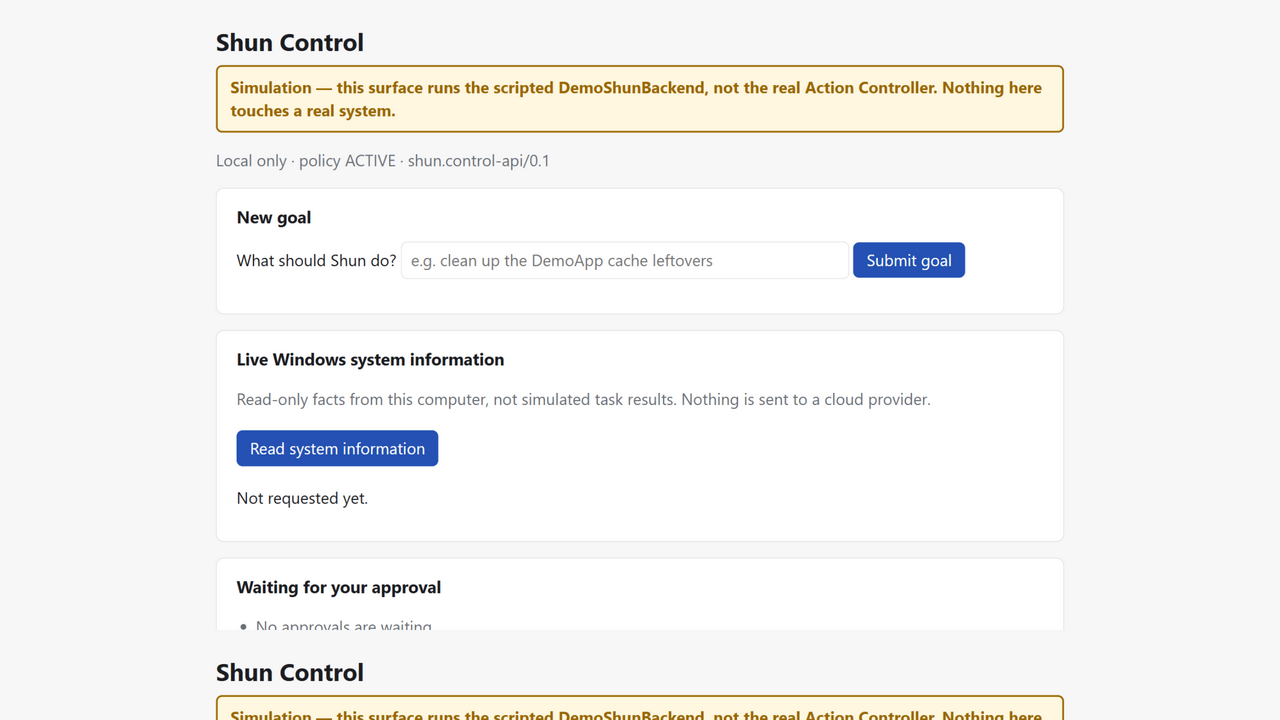
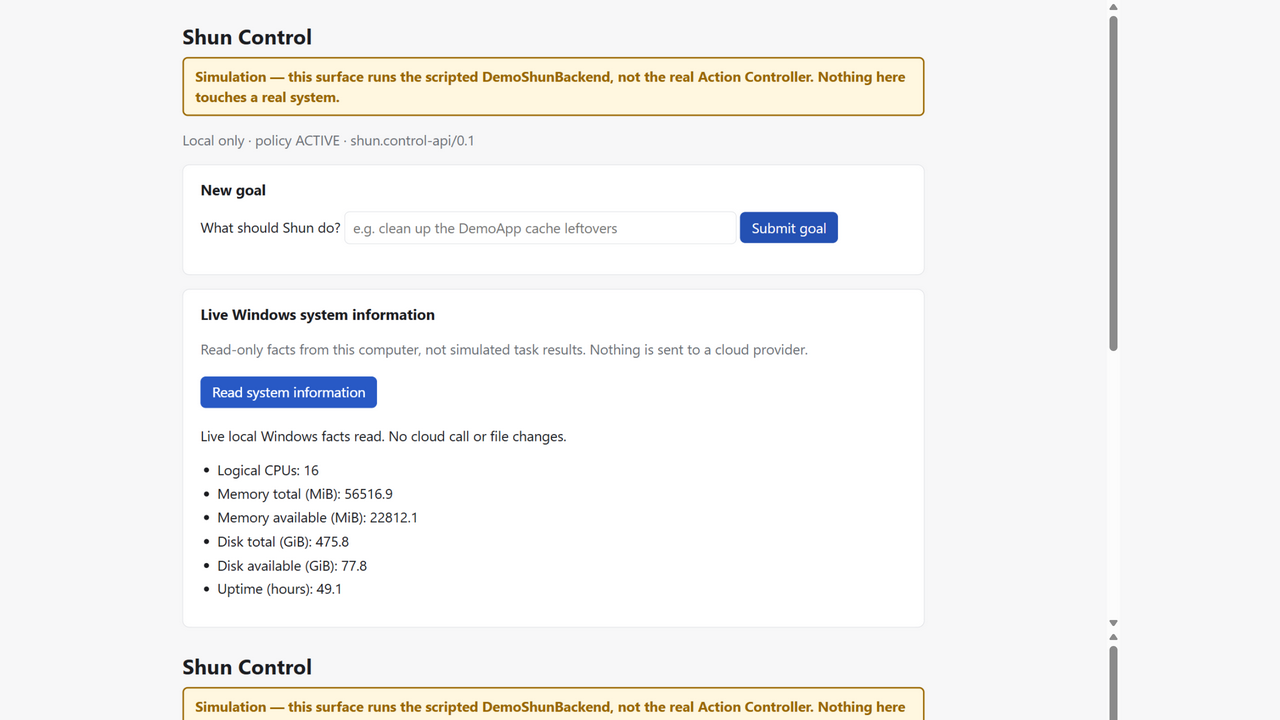
docs(validation): T08 J0 R1 follow-up — replace pre-state viewport shot, fix MiB wording
R1 independent review: APPROVE, no P1. Evidence hygiene: the first full-viewport
after-click capture had actually caught the pre-click state (click raced the initial
layout settle); re-shot after one refresh cycle with DOM-verified click state at
capture instant. Fresh click re-measured live samples (22,812.1 MiB available vs
19,981.3 earlier), proving per-click real observation.

diff --git a/docs/validation/v0.2/t08-j0-live-inventory-winval.md b/docs/validation/v0.2/t08-j0-live-inventory-winval.md
@@ -41,7 +41,8 @@ the same window (full numbers in the log):
 | memoryFreeBytes | 20,805,070,848 | 21,141,008,384 | Δ ≈1.6%, live free-memory drift between samples |
 | uptimeSeconds | 175,340 | 175,352.8 | Δ 12.8 s = capture interval |
 
-UI rendering cross-check: 56,516.9 MiB × 2²⁰ = 59,262,226,432 exactly. Nothing is
+UI rendering cross-check: 59,262,226,432 B = 56,516.86328125 MiB, rendered by the UI
+as "56516.9" (`toFixed(1)`); disk and uptime figures round the same way. Nothing is
 invented: the totals are physically unforgeable byte-for-byte matches, and the code path
 is the reviewed T06 collector (`node:os` + `statfsSync('C:\\')` only — no new OS native
 code, no shell; the PowerShell helpers in the same package are NOT on this path).
@@ -81,6 +82,30 @@ The new real-inventory test itself proves the negative contract: on non-Windows 
 endpoint must answer explicit 503 `LIVE_SYSTEM_INVENTORY_UNAVAILABLE`, never fabricated
 Windows numbers (the Linux CI leg exercises this; the Windows physical run above
 exercises the 200 leg).
+
+## R1 independent review — APPROVE (no P1)
+
+An independent R1 reviewer audited the PR diff (all 7 commits), the endpoint/collector/UI
+code paths, re-ran all three test suites (same counts, EXIT=0), and reconciled every number
+in the evidence log. Verdict APPROVE with two evidence-hygiene findings, both addressed in
+the amendment below:
+
+- P2: the first `ui-after-click-viewport.png` actually captured the pre-click state
+  ("Not requested yet." — the coordinate click had raced the freshly-loaded layout).
+  The after-click claim was already carried by `ui-after-click-system-section.png`
+  (verified by R1 to show the status line and the facts).
+- P3: a MiB-conversion sentence in this file overclaimed "exactly"; reworded above.
+
+### Amendment (post-R1 re-shoot)
+
+Relaunched the server, opened a fresh UI tab, let the layout settle past one 2.5 s refresh
+cycle, re-measured the button position (its settled centre is (330, 448)) and clicked. The
+fresh click re-measured the machine live (memory available 22,812.1 MiB, uptime 49.1 h —
+different from the first session's 19,981.3 MiB / 48.8 h, further proof each click is a
+real new observation, not cached data). `ui-after-click-viewport.png` was replaced with a
+full-viewport capture taken in the same instant the DOM read back
+`"Live local Windows facts read. No cloud call or file changes."` with 6 facts rendered;
+its SHA256 is in the log's amendment section. Worktree still byte-identical afterwards.
 
 ## Scope honesty
 
